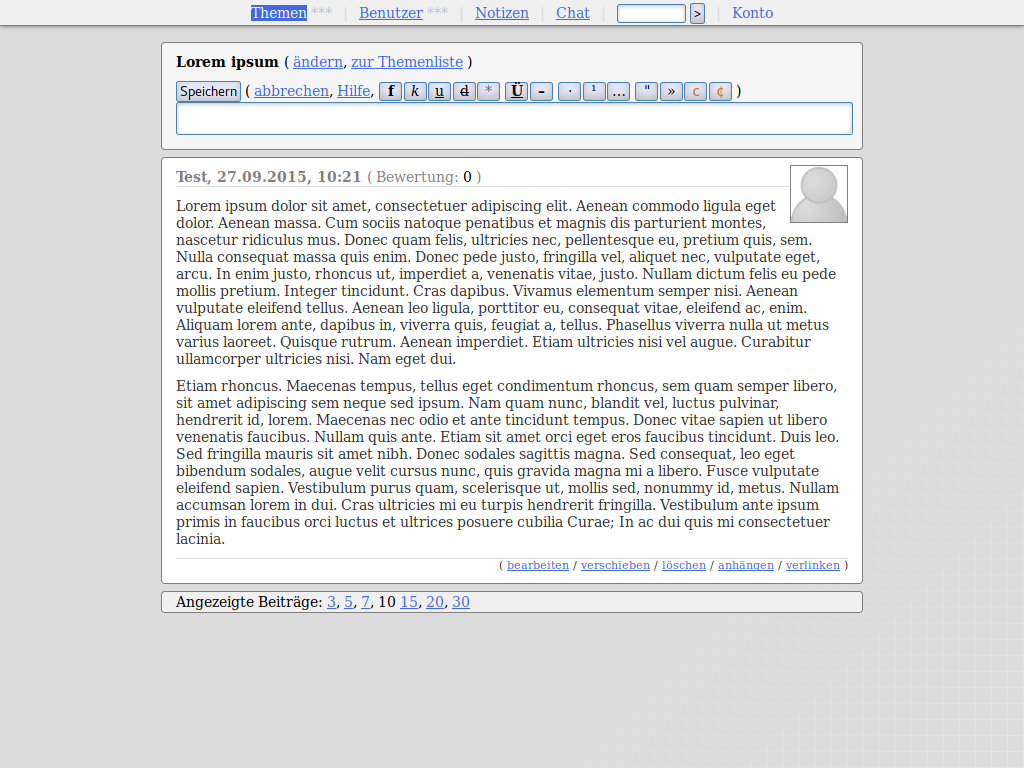
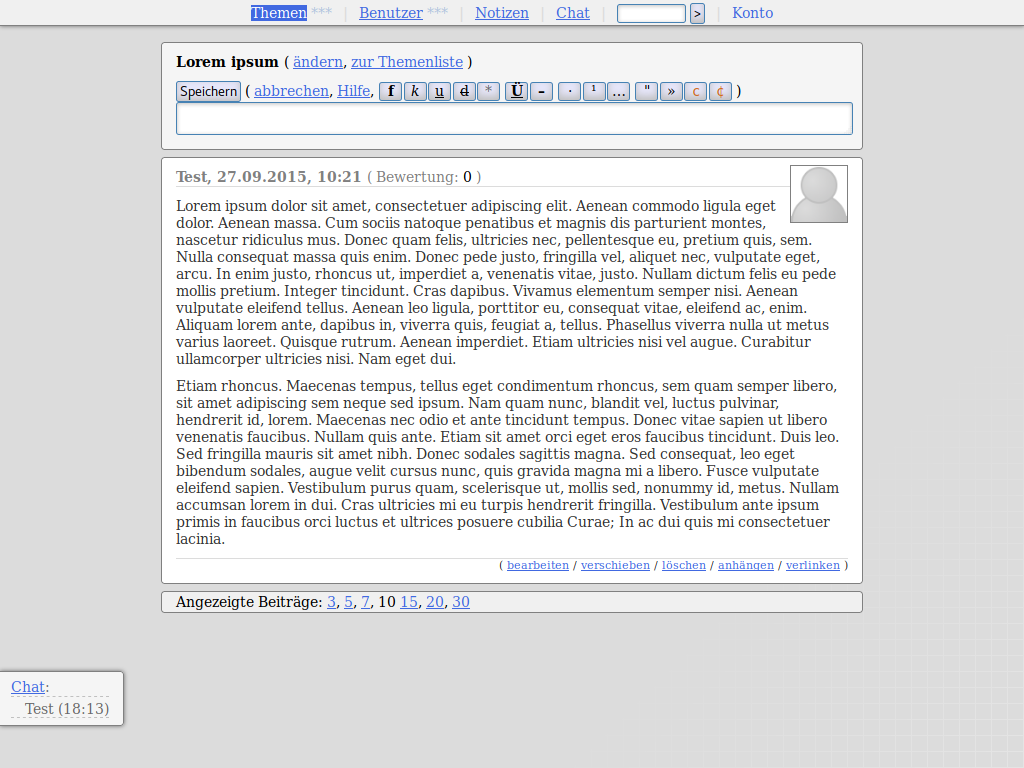
Nachbesserungen

Changed region(s): [[0.0, 0.8438, 0.125, 0.9688]]

diff --git a/public/theme/large.css b/public/theme/large.css
@@ -340,8 +340,11 @@ button:active, #editbuttons .buttonalike:active {
     padding: 0;
     margin: 0 .5em;
 }
-.postbox, .popup, .headbox, .pages {
+.postbox, .popup, .headbox, .pages, .messagebox > * {
     border-radius: .25em;
+}
+#chatuserlist {
+    border-radius: 0 .25em .25em 0;
 }
 textarea, .buttonalike, button, input {
     border-radius: .2em;
